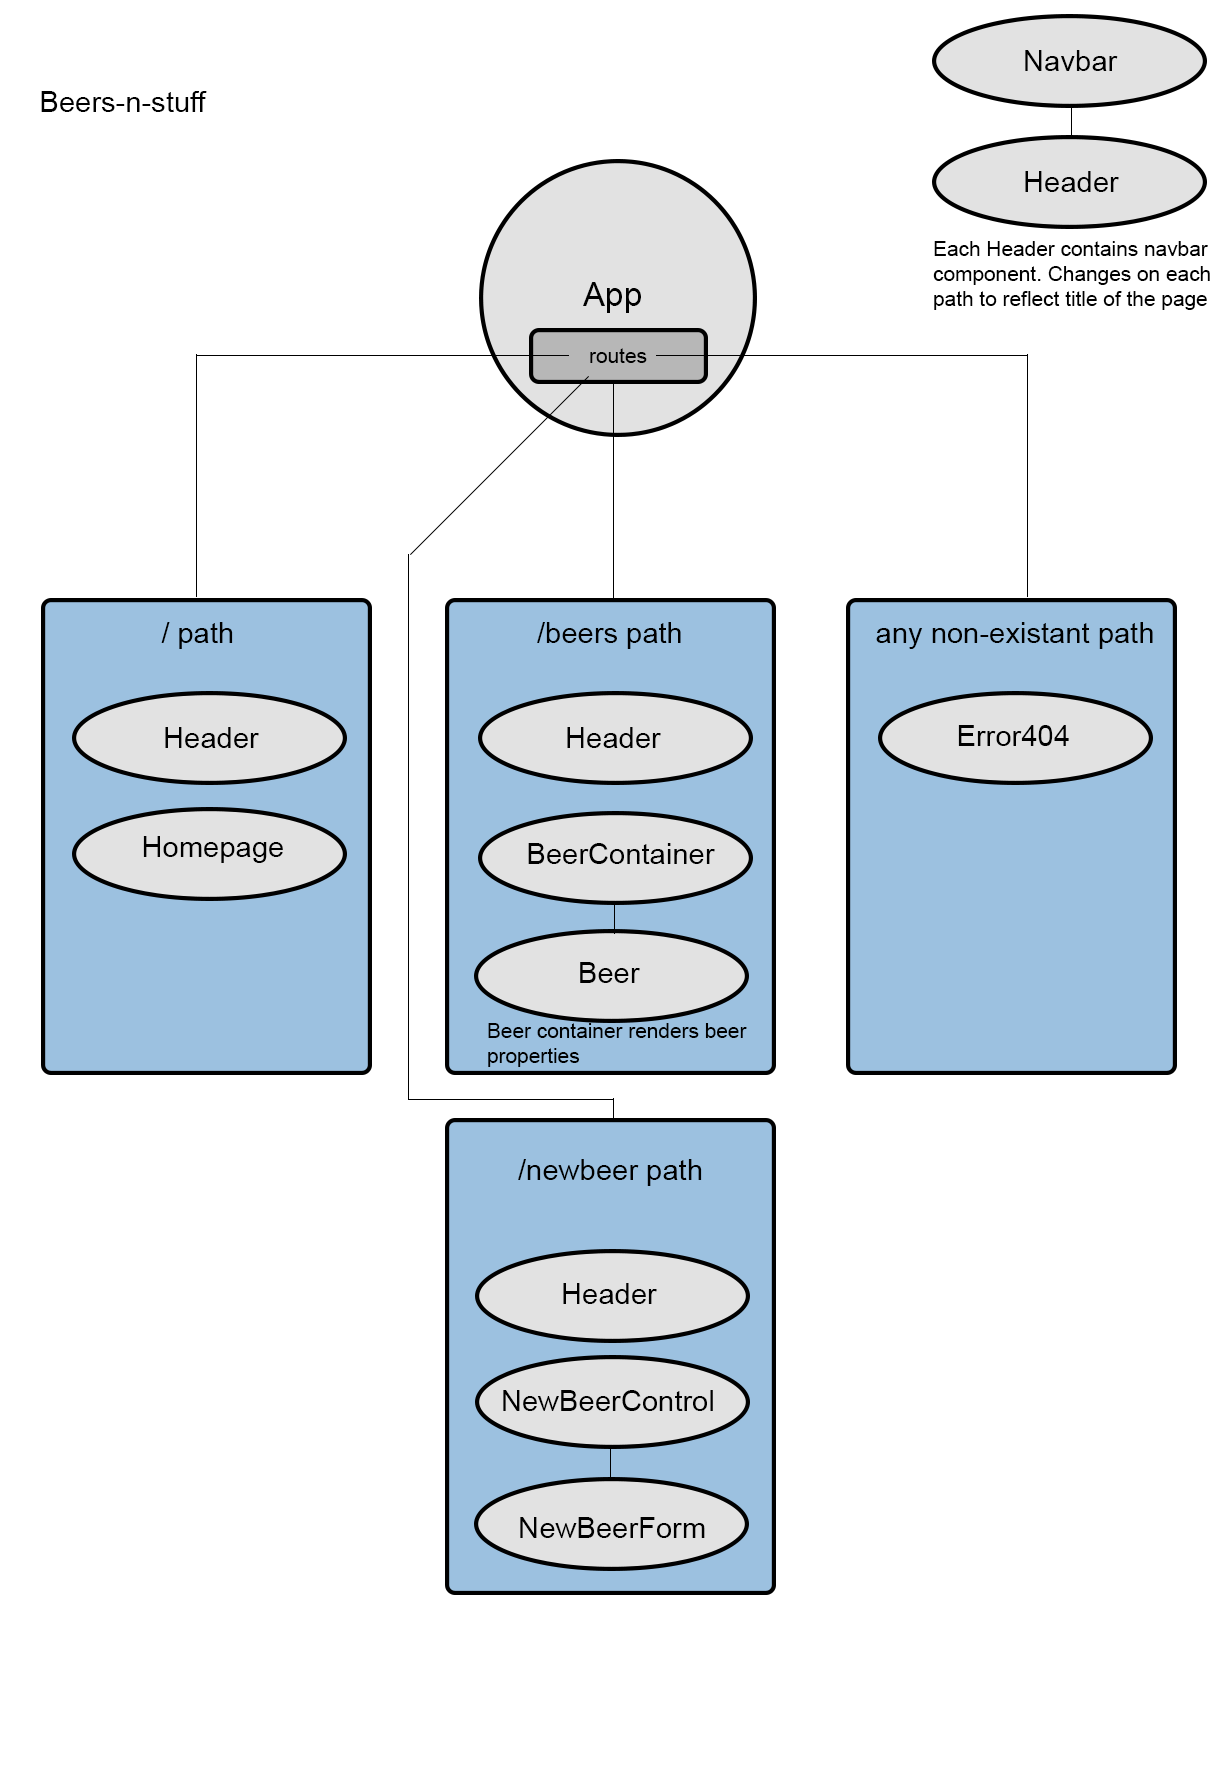
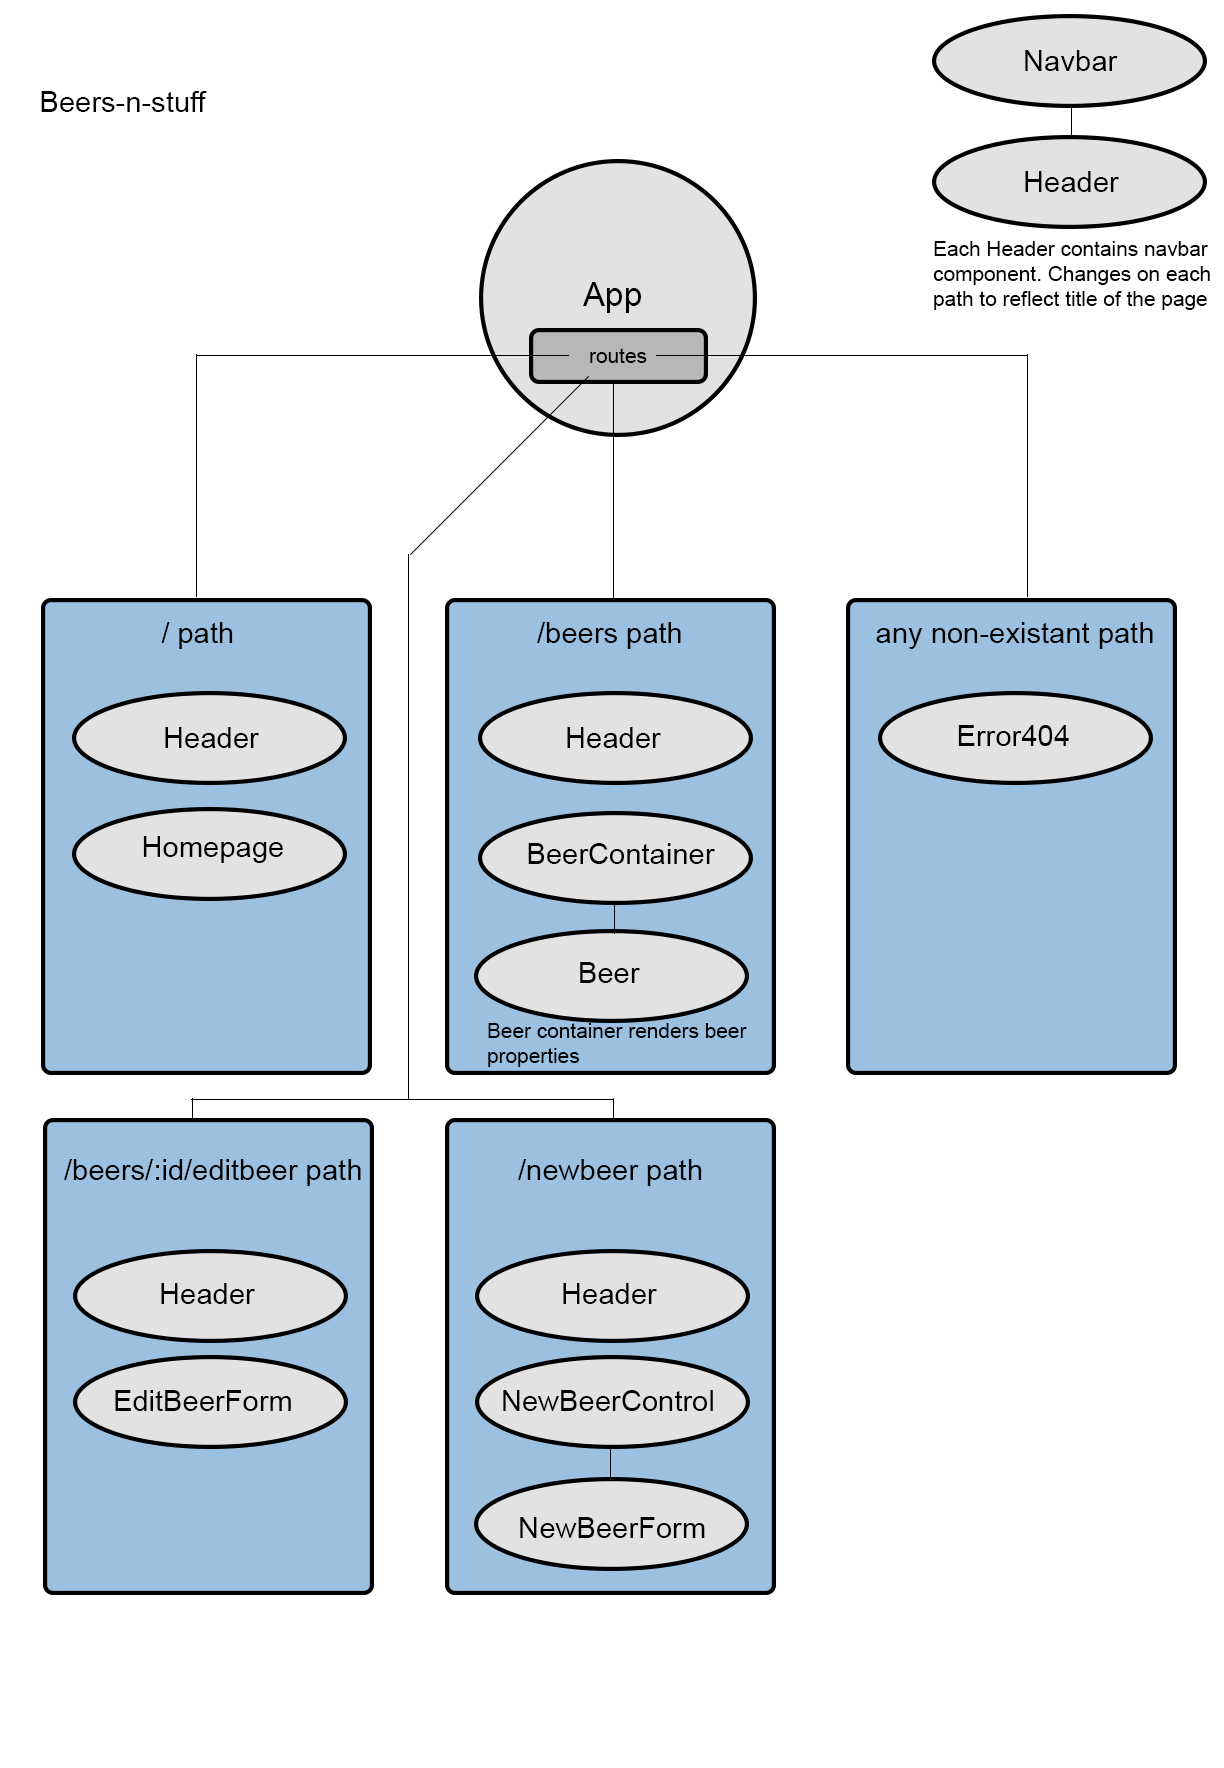
style new beer form, add a grid to beers on tap section

Changed region(s): [[0.031, 0.6222, 0.3105, 0.9021]]

diff --git a/src/components/NewBeerForm.jsx b/src/components/NewBeerForm.jsx
@@ -1,20 +1,64 @@
 import React from 'react';
 
 function NewBeerForm() {
+  const submitBtnStyle = {
+    marginTop: '20px',
+    height: '50px',
+  }
   return(
     <div>
       <form action="index.html" method="post">
-        <label for="name">Name</label>
-        <input name="name" placeholder="ex. Natty Lite"/>
-        <label for="brand">Brand</label>
-        <input name="brand" placeholder="ex. Pond Scum Brewery"/>
-        <label for="price">Price</label>
-        <input name="price" placeholder="ex. $4.00"/>
-        <label for="alcoholContent">Alcohol Content</label>
-        <input name="alcoholContent" placeholder="ex. 7%"/>
-        <label for="type">Type</label>
-        <input name="type" placeholder="ex. IPA"/>
-        <button type="submit">Submit</button>
+
+        <div>
+          <label for="name">Name</label>
+        </div>
+        <div>
+          <input name="name" placeholder="ex. Natty Lite"/>
+        </div>
+        <div/>
+
+        <div>
+          <label for="brand">Brand</label>
+        </div>
+        <div>
+          <input name="brand" placeholder="ex. Pond Scum Brewery"/>
+        </div>
+        <div/>
+
+        <div>
+          <label for="price">Price</label>
+        </div>
+        <div>
+          <input name="price" placeholder="ex. $4.00"/>
+        </div>
+        <div/>
+
+        <div>
+          <label for="alcoholContent">Alcohol Content</label>
+        </div>
+        <div>
+          <input name="alcoholContent" placeholder="ex. 7%"/>
+        </div>
+        <div/>
+
+        <div>
+          <label for="type">Type</label>
+        </div>
+        <div>
+          <input name="type" placeholder="ex. IPA"/>
+        </div>
+        <div/>
+
+        <div>
+          <label for="promoText">Promotional Text</label>
+        </div>
+        <div>
+          <textarea name="promoText" placeholder="Promotional text here"/>
+        </div>
+        <div/>
+
+        <button style={submitBtnStyle} type="submit">Submit</button>
+
       </form>
     </div>
 

diff --git a/src/components/BeersContainer.jsx b/src/components/BeersContainer.jsx
@@ -2,6 +2,7 @@ import React from 'react';
 import Beer from './Beer';
 import PropTypes from "prop-types";
 import Header from './Header';
+import { Link } from 'react-router-dom';
 
 const beers = [
   {
@@ -11,6 +12,14 @@ const beers = [
     alcoholContent: '7%',
     type: 'Red Ale',
     promoText: 'Brewed in beautiful Eugene, OR. This fine beer will be sure to get you nice and boozy.'
+  },
+  {
+    name: 'Hipster Stuff',
+    brand: 'Before It was Cool',
+    price: '$14.00',
+    alcoholContent: '6.5%',
+    type: 'Pilsner',
+    promoText: 'Meditation scenester kickstarter, offal letterpress fanny pack asymmetrical banjo. Migas leggings chillwave tofu, tousled forage jianbing enamel pin keffiyeh kitsch twee crucifix yr etsy.'
   },
   {
     name: 'Natty',
@@ -24,13 +33,18 @@ const beers = [
 
 function BeersContainer(props) {
   const gridBox = {
-    display: 'grid'
+    display: 'grid',
+    gridTemplateColumns: 'repeat(2, 1fr)',
+    padding: '5%'
+  }
+  const linkStyle = {
+    paddingRight: '12px',
+    color: '#DDDBA9'
   }
   return(
     <div>
       <Header title="The Beers"/>
       <div style={gridBox}>
-      <h2>{props.type}</h2>
       {beers.map((beer, index) =>
         <Beer
           name={beer.name}
@@ -45,6 +59,7 @@ function BeersContainer(props) {
     </div>
   )
 }
+// <Link style={linkStyle} to="/">Edit</Link>
 
 Beer.propTypes = {
   type: PropTypes.string.isRequired,

diff --git a/src/components/EditBeerForm.jsx b/src/components/EditBeerForm.jsx
@@ -1,0 +1,29 @@
+import React from 'react';
+import PropTypes from "prop-types";
+
+function EditBeerForm(props) {
+  return(
+    <div>
+      <form action="index.html" method="post">
+        <label for="name">Name</label>
+        <input name="name" placeholder="ex. Natty Lite"/>
+        <label for="brand">Brand</label>
+        <input name="brand" placeholder="ex. Pond Scum Brewery"/>
+        <label for="price">Price</label>
+        <input name="price" placeholder="ex. $4.00"/>
+        <label for="alcoholContent">Alcohol Content</label>
+        <input name="alcoholContent" placeholder="ex. 7%"/>
+        <label for="type">Type</label>
+        <input name="type" placeholder="ex. IPA"/>
+        <button type="submit">Submit</button>
+      </form>
+    </div>
+
+  )
+}
+
+EditBeerForm.propTypes = {
+  beer: PropTypes.object.isRequired,
+};
+
+export default EditBeerForm;

diff --git a/src/components/Beer.jsx b/src/components/Beer.jsx
@@ -4,11 +4,11 @@ import bottle from '../assets/img/bottle.png'
 
 function Beer(props) {
   const beerBoxStyle = {
-    border: 'white solid 2px',
+    // border: 'white solid 2px',
     padding: '50px',
     display: 'flex',
     margin: '20px 72px',
-    width: '450px',
+    width: '550px',
     height: '150px'
   }
   const littleText = {
@@ -32,7 +32,7 @@ function Beer(props) {
   }
   return(
     <div style={beerBoxStyle}>
-      <img style={bottleStyle} src={bottle}/>
+      <img style={bottleStyle} src={bottle} alt="bottle graphic"/>
       <div style={infoBoxStyle}>
         <h3 style={beerNameStyle}>{props.name}</h3>
         <h4>{props.brand}</h4>

diff --git a/src/components/Homepage.jsx b/src/components/Homepage.jsx
@@ -9,8 +9,8 @@ function Homepage() {
     <div>
       <Header title="Home"/>
       <p style={fluffTextStyle}>Here at Beers-n-Stuff we provide only the finest beers, and stuff!</p>
-      <p style={fluffTextStyle}>Use the navigation above to navigate around the site</p>
-      <p style={fluffTextStyle}><em>Most importantly we do not condone the misuse of alcohol</em></p>
+      <p style={fluffTextStyle}>Use the navigation above to poke around the site</p>
+      <p style={fluffTextStyle}><em>We do not condone the misuse of alcohol. Drink responsibly</em></p>
     </div>
   )
 }

diff --git a/src/index.css b/src/index.css
@@ -14,6 +14,31 @@ code {
   font-family: source-code-pro, Menlo, Monaco, Consolas, 'Courier New',
     monospace;
 }
+
 h4 {
   margin: 0;
+}
+
+input {
+padding: 5px;
+margin: 10px;
+width: 200px;
+}
+
+textarea {
+padding: 5px;
+margin: 10px;
+width: 450px;
+height: 100px;
+}
+
+label {
+  margin: 10px;
+}
+
+form {
+  padding: 40px;
+  width: 1000px;
+  display: grid;
+  grid-template-columns: repeat(3, 1fr);
 }

diff --git a/src/components/EditBeerControl.jsx b/src/components/EditBeerControl.jsx
@@ -1,0 +1,15 @@
+import React from 'react';
+import EditBeerForm from './EditBeerForm';
+import Header from './Header';
+
+function NewBeerControl() {
+  return(
+    <div>
+      <Header title='Edit Beer'/>
+      <EditBeerForm/>
+    </div>
+  )
+
+}
+
+export default NewBeerControl
